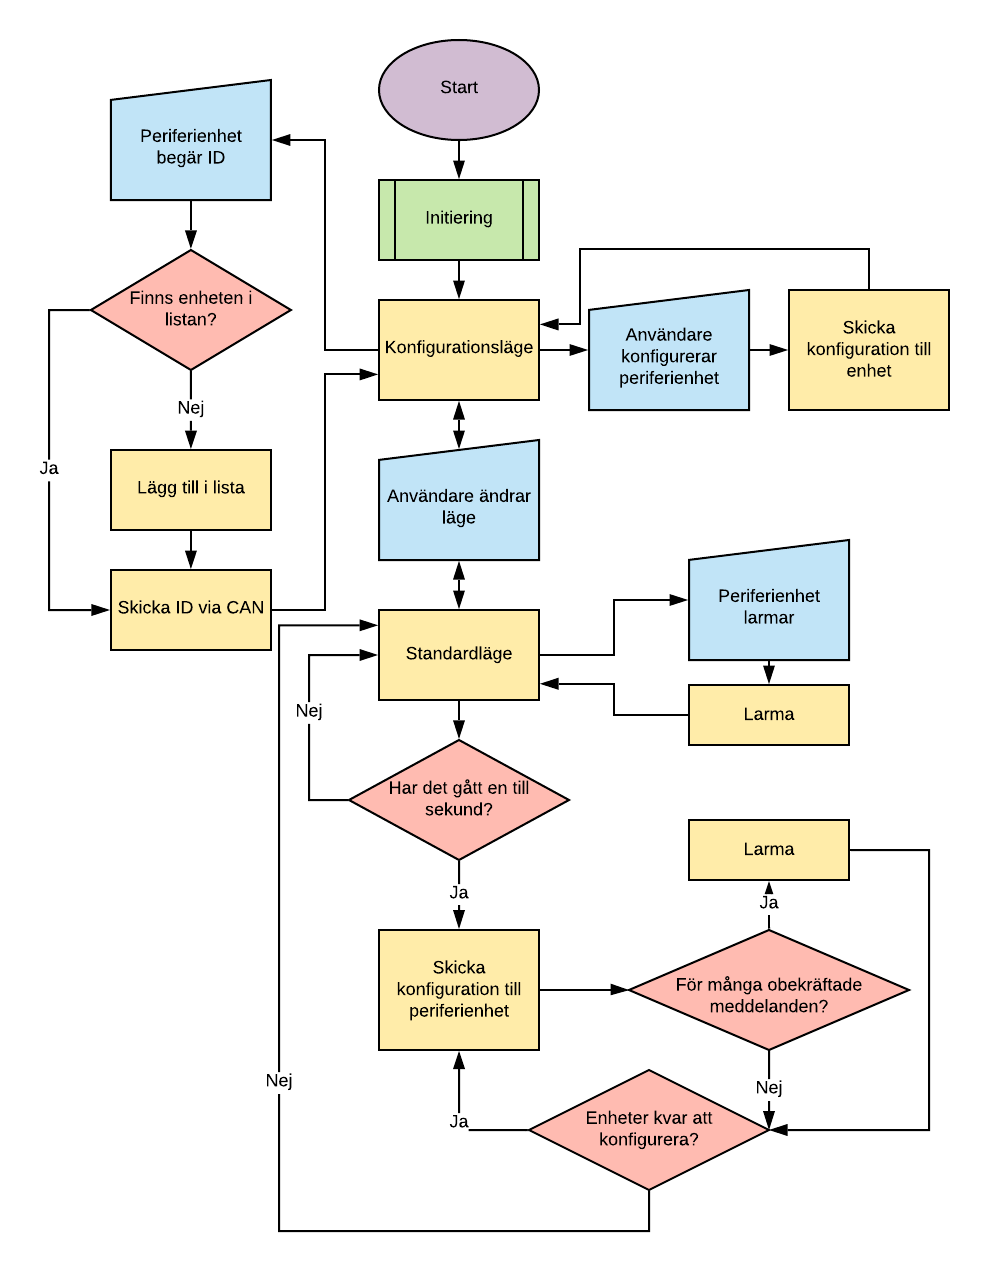
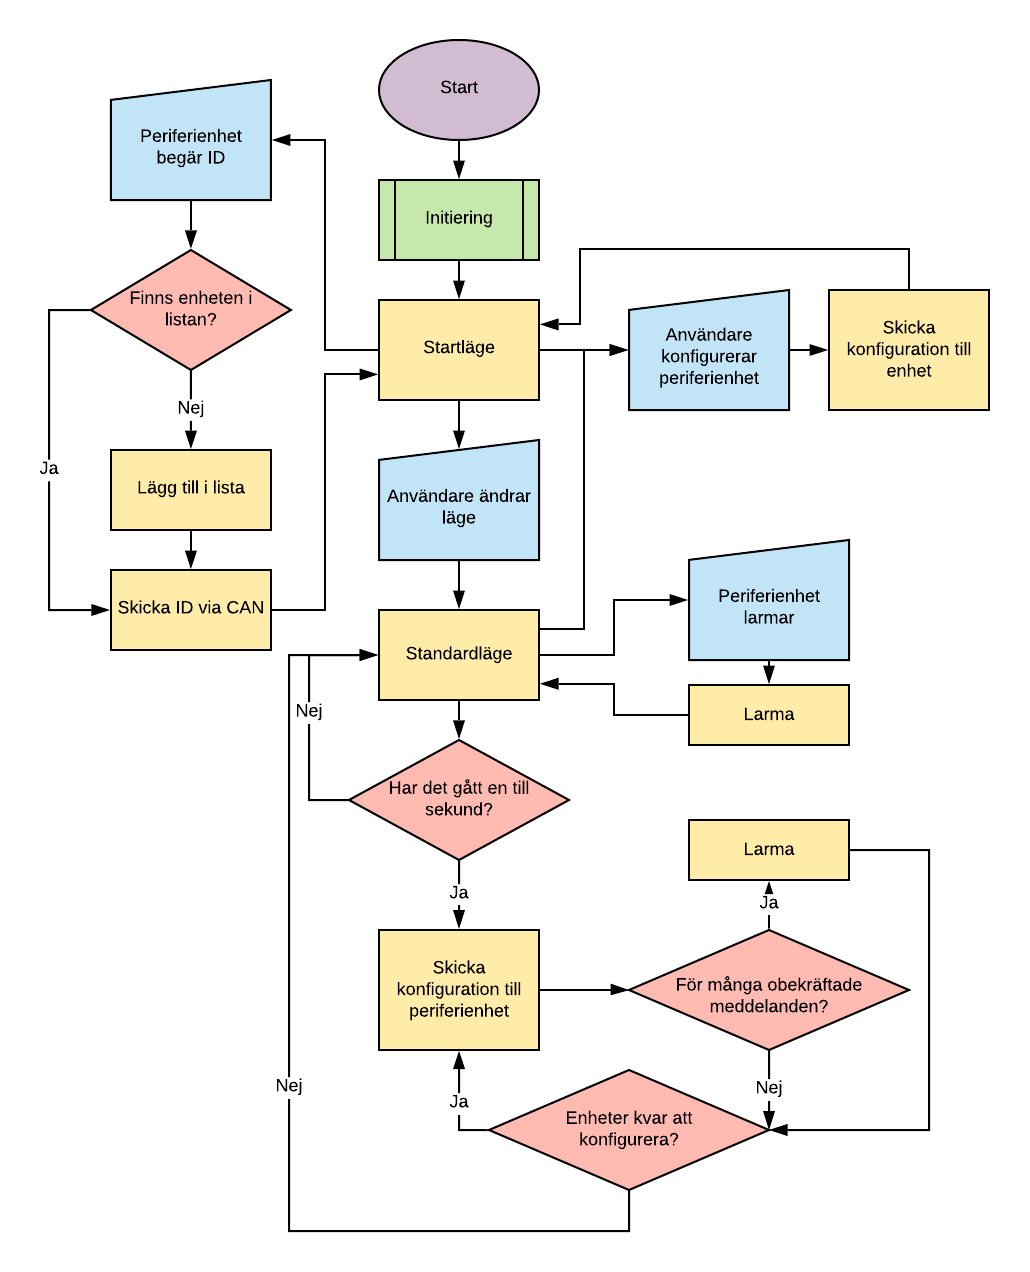
Fixar centralenhetens flödesschema och tar bort ett par kommentarer i koden

diff --git a/dokumentation/projektrapport/Slutgiltig Rapport.TeX b/dokumentation/projektrapport/Slutgiltig Rapport.TeX
@@ -172,9 +172,8 @@ En översikt av hårdvaran och hur den är kopplad finns i Figur \ref{fig:hårdv
     \label{fig:hårdvara}
 \end{figure}
 
-När centralenheten samt periferienheterna startar befinner de sig i konfigurationsläge,
- där varje enhet konfigurerar sig på lokal nivå (USART, CAN-bussen, GPIO), varpå centralenheten skickar konfigurationer till periferienheterna, som de använder för att konfigurera sina respektive sensorer.
- Efter att ha konfigurerats går enheterna in i var sin kontinuerlig loop. Periferienheterna mäter ständigt av sensorerna och skickar larm-meddelanden över CAN-bussen till centralenheten vid behov. Centralenheten skickar periodiskt konfigurationer till periferienheterna och larmar ifall dessa inte bekräftas.
+När centralenheten samt periferienheterna startar befinner de sig i konfigurationsläge, där varje enhet konfigurerar sig på lokal nivå (USART CAN-bussen, GPIO), varpå centralenheten skickar konfigurationer till periferienheterna, som de använder för att konfigurera sina respektive sensorer.
+Efter att ha konfigurerats går enheterna in i var sin kontinuerlig loop. Periferienheterna mäter ständigt av sensorerna och skickar larm-meddelanden över CAN-bussen till centralenheten vid behov. Centralenheten skickar periodiskt konfigurationer till periferienheterna och larmar ifall dessa inte bekräftas.
 
 En överblick av mjukvarans tidsflöde finns i figur \ref{fig:tidsflöde}.
 
@@ -207,8 +206,8 @@ Denna prioritering har använts för att ge brådskande meddelanden företräde 
 		Bekräftelse		& Bekräftelse för senast mottagna meddelandet. \\ \hline
 		Skicka larm		& Talar om för centralenheten om någon dörr eller sensor larmar. \\ \hline
 		Konfiguration		& Används för att skicka sensorkonfiguration och kalibrering. \\ \hline
-		Tilldelning av ID		& Används då centralenheten tilldelar en periferienhet dess ID. \\ \hline
-		ID-begäran		& Används för att begära ett ID. \\ \hline
+		Tilldelning av id		& Används då centralenheten tilldelar en periferienhet dess id. \\ \hline
+		Id-begäran		& Används för att begära ett id. \\ \hline
 
 	\end{tabular}
 	\caption{Meddelandetyper som används för datakommunikationen.}
@@ -238,27 +237,23 @@ För att säkerställa att åtgärden för att hindra återspelningsattacker fun
 
 
 \subsection{Delsystem }
-Varje egen enhet ses som en del utav det hela systemet. Dessa tre delsystem är
-centralenheten, dörrenheten och rörelseenheten. I det här avsnittet beskrivs de
-olika delsystemen.
 \subsubsection{Centralenheten}
 \label{subsec:centralenhet}
-\begin{figure}[H]
-    \centering
-    \includegraphics[scale=0.3]{figurer/Centralenhet.png}
-    \caption{Flödesschema för centralenhetens mjukvara.}
-    \label{fig:centralflöde}
-\end{figure}
 
 Centralenheten styr och har uppsikt över periferienheterna enligt figur \ref{fig:centralflöde}.
 Inställningar görs via USART med kommandon enligt bilaga \ref{kommandon}, varpå de vidarebefordras till rätt periferienhet via CAN.
 
+\begin{figure}[H]
+    \centering
+    \includegraphics[scale=0.3]{figurer/Centralenhet.png}
+    \caption{Flödesschema för centralenhetens viktigaste funktionalitet.}
+    \label{fig:centralflöde}
+\end{figure}
+
 Centralenheten har följande två lägen:
 
 \begin{description}
-    \item[Startläge] I detta läge accepterar centralenheten sammankoppling med periferienheter genom att lyssna på deras ID-begäransmeddelanden och därefter tilldela dem ID:n.
-    
-    Då centralenheten är i detta läge kan periferienheter ansluta sig till den genom att skicka en ID-begäran via CAN, varpå centralenheten skickar tillbaka ett ID.
+    \item[Startläge] Då centralenheten är i detta läge kan periferienheter ansluta sig till den genom att skicka en id-förfrågan via CAN, varpå centralenheten skickar tillbaka ett id.
 
     
     \item[Standardläge] Enheten väntar på larm-meddelanden från periferienheterna eller användarinput via USART. Dessutom skickar den regelbundet konfigurationen för anslutna dörrar och sensorer till periferienheterna, som förväntas bekräfta konfigurationen.
@@ -269,8 +264,8 @@ I båda lägena kan användaren hantera periferienheterna genom konfigurationsä
 
 
 \todo[inline]{Hur mycket av följande stycke behövs egentligen?} 
-För att kunna adressera olika periferienheter måste centralenheten tilldela dessa varsitt unikt ID.
-Detta görs i startläget genom att varje enhet som saknar ID skickar en förfrågan via CAN. Då periferienheten i denna fas saknar id skickar den ett tillfälligt 32-bitars slumpgenererat id i datafältet för att låta centralenheten särkilja den från andra periferienheter som saknar id.
+För att kunna adressera olika periferienheter måste centralenheten tilldela dessa varsitt unikt id.
+Detta görs i startläget genom att varje enhet som saknar id skickar en förfrågan via CAN. Då periferienheten i denna fas saknar id skickar den ett tillfälligt 32-bitars slumpgenererat id i datafältet för att låta centralenheten särkilja den från andra periferienheter som saknar id.
 När centralenheten har tagit emot en sådan förfrågan skickar den tillbaka det lägsta lediga id:t och skapar en ny instans av en struktur som representerar periferienheten och lägger den i en lista. Strukturen innehåller enhetens id, tillfälliga id och konfiguration (d.v.s. tider för varje dörr för dörrenheter respektive avstånd för varje avståndssensor och antal vibrationssensorer för rörelseenheter). Om periferienheten inte tar emot sitt id och därför skickar en ny förfrågan görs detta med samma tillfälliga id, vilket låter centralenheten tilldela den samma id igen.
 Id:t används för att adressera meddelanden till samt identifiera meddelanden från enheten. Det är också periferienhetens index i centralenhetens lista, vilket gör det mycket effektivt att hitta rätt enhet i listan när dess id har lästs i CAN-meddelandet.
 
@@ -392,8 +387,7 @@ Trig- och echo-pinnen från HC-SR04 samt en LED-lampan kopplas resepktive till  
 
 
 Sensorn aktiveras genom att MD407-enkortsdatorn skickar en hög puls till sensorn i minst 10 mikrosekunder, 
-varpå sensorn skickar ut ultraljudsvågor och sänder en hög puls till MD407-enkortsdatorn fram tills 
-ultraljudsvågorna har återvänt. Avståndet till närmaste föremål beräknas genom att mäta längden på pulsen.
+varpå sensorn skickar ut ultraljudsvågor och sänder en hög puls till MD407-enkortsdatorn fram tills ultraljudsvågorna har återvänt. Avståndet till närmaste föremål beräknas genom att mäta längden på pulsen.
 HC-SR04 kan mäta avstånd upp till 400 cm och det centrala samt lokala larmavståndet är justerbart från centralenheten.
 
 Rörelsesensorn har både centralt och lokalt larm. Avståndet för centrala larmet ställs in av centralenheten via CAN-kommunikation 
@@ -417,14 +411,14 @@ Vibrationssensorn har endast central larm som skickas via CAN.
  \subsection{Centralenheten}
  Centralenheten har följande funktionalitet:
  \begin{enumerate}
-     \item Tilldelning av ID till periferienheter.
+     \item Tilldelning av id till periferienheter.
      \item Konfiguration av periferienheter via USART.
      \item Automatisk detektering av enheter som lämnar nätverket.
      \item Larmhantering.
  \end{enumerate}
  För att säkerställa att funktionalitet ovan fungerar utfördes följande tester:
  \begin{enumerate}
-     \item Test av ID-tilldelning och larmmeddelnade se bilaga \ref{test:idLarm}.
+     \item Test av id-tilldelning och larmmeddelnade se bilaga \ref{test:idLarm}.
      \todo{Kommer kompleteras med fler tester.}
  \end{enumerate}
  
@@ -445,7 +439,7 @@ Vibrationssensorn har endast central larm som skickas via CAN.
  \begin{enumerate}
      \item Test av pinnar för dörrar
      \item Test av lokal drift
-     \item Test av ID-tilldelning och larm
+     \item Test av id-tilldelning och larm
  \end{enumerate}
 
  \subsection{Rörelseenheten}
@@ -464,7 +458,6 @@ Vibrationssensorn har endast central larm som skickas via CAN.
  \end{enumerate}
  
  \subsection{Larmsystemet som helhet}
- 
 
 \newpage
 \section{Diskussion och slutsats}
@@ -494,16 +487,16 @@ att polling används istället för avbrott är att det endast finns 16 avbrotts
     Startar standardläge.
 
     \textbf{dor v x y z}\\
-    Där \textbf{v, x, y} och \textbf{z} är tal mellan 0 och 9. Konfigurerar dörr \textbf{x} på enhet med ID \textbf{v} med timer för lokalt larm på  \(\textbf{y} * 10\) sekunder samt en fördröjning till centralt larm på \(\textbf{z} * 10\) sekunder.
+    Där \textbf{v, x, y} och \textbf{z} är tal mellan 0 och 9. Konfigurerar dörr \textbf{x} på enhet med id \textbf{v} med timer för lokalt larm på  \(\textbf{y} * 10\) sekunder samt en fördröjning till centralt larm på \(\textbf{z} * 10\) sekunder.
 
     \textbf{ror x y z}\\
-    Där \textbf{x, y} och \textbf{z} är tal mellan 0 och 9. Konfigurerar rörelsesensor \textbf{y} på enhet med ID \textbf{x} för att larma då den detekterar ett föremål på ett avstånd mindre än \(\textbf{z} * 10\) centimeter.
+    Där \textbf{x, y} och \textbf{z} är tal mellan 0 och 9. Konfigurerar rörelsesensor \textbf{y} på enhet med id \textbf{x} för att larma då den detekterar ett föremål på ett avstånd mindre än \(\textbf{z} * 10\) centimeter.
 
     \textbf{avlarma y z} \\
-    Avlarmar sensor \textbf{z} på enhet med ID \textbf{y}.
+    Avlarmar sensor \textbf{z} på enhet med id \textbf{y}.
 
     \textbf{larma y z} \\
-    Larmar sensor \textbf{z} på enhet med ID \textbf{y}. Alla sensorer är larmade som standard så detta kommando körs om man vill återaktivera larm efter att det avaktiverats.
+    Larmar sensor \textbf{z} på enhet med id \textbf{y}. Alla sensorer är larmade som standard så detta kommando körs om man vill återaktivera larm efter att det avaktiverats.
 
 	\clearpage
 	\section{Tester}

diff --git a/kod/Centralenhet/startup.c b/kod/Centralenhet/startup.c
@@ -928,9 +928,7 @@ uint8_t send_door_configs(uint8_t id, uint8_t first_door_ID, uint8_t *return_doo
         }
 
         encode_door_config(&msg, id, first_door_ID, last_door_ID - 1, first_door.time_local_larm, first_door.time_central_larm, first_door.locked);
-        //print_door(door_first);
         if (CANsendMessage(&msg) == CAN_TxStatus_NoMailBox){
-            //USARTPrint("No mailbox 1\n");
             *return_door_ID = first_door_ID;
             return 0;
         } else {
